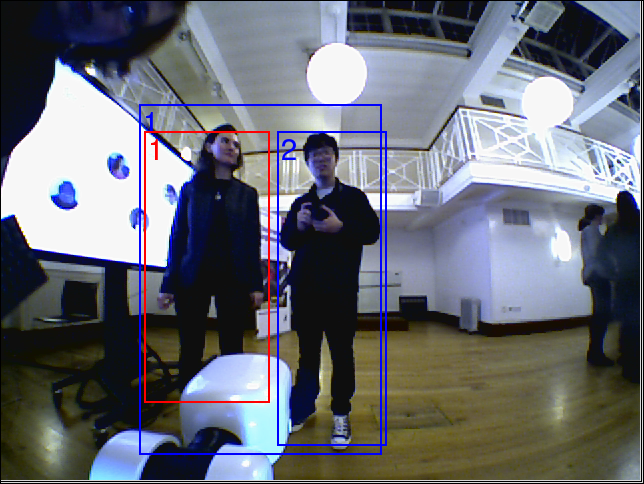
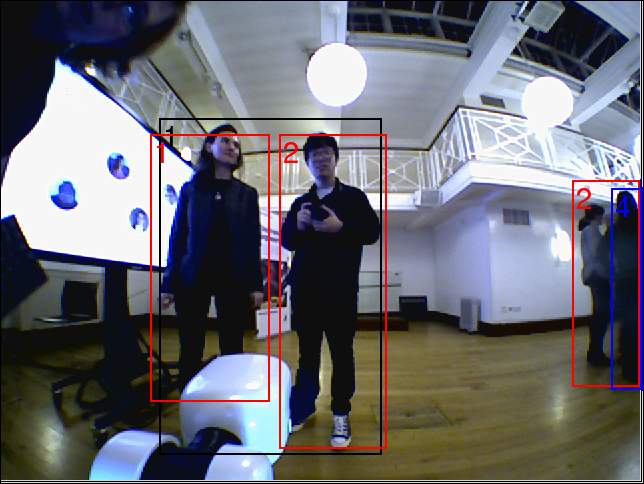
colour fix for bounding boxes - annotation readability

Changed region(s): [[0.2174, 0.2169, 0.6211, 0.9607], [0.8696, 0.3719, 1.0, 0.8058]]

diff --git a/src/human-finder.py b/src/human-finder.py
@@ -121,10 +121,10 @@ def detect_and_track_people(files_to_detect_in):
             print object_id, ' - ', obj_rects[object_id]
             if object_id > max_id:
                 max_id = object_id
-            true_rects = [obj_rects[object_id][0] * ratw,
-                          obj_rects[object_id][1] * rath,
-                          obj_rects[object_id][2] * ratw,
-                          obj_rects[object_id][3] * rath,]
+            true_rects = [int(obj_rects[object_id][0] * ratw),
+                          int(obj_rects[object_id][1] * rath),
+                          int(obj_rects[object_id][2] * ratw),
+                          int(obj_rects[object_id][3] * rath)]
             save_frame['rects'][object_id] = true_rects
         print '>' *10
         frames.append(save_frame)

diff --git a/src/mod-actanno.py b/src/mod-actanno.py
@@ -1182,9 +1182,9 @@ class Example(Frame):
 		# Draw all rectangles
 		for (i, r) in enumerate(self.ct.get_rects()):
 			if i == sempos.index:
-				curcol = "blue"
+				curcol = "green"
 			else:
-				curcol = "red"
+				curcol = "green"
 			draw.rectangle([r.x1, r.y1, r.x2, r.y2], outline=curcol)
 			draw.rectangle([r.x1 + 1, r.y1 + 1, r.x2 - 1, r.y2 - 1], outline=curcol)
 			draw.text([r.x1 + 3, r.y1 + 2], str(r.object_id), font=self.img_font, fill=curcol)
